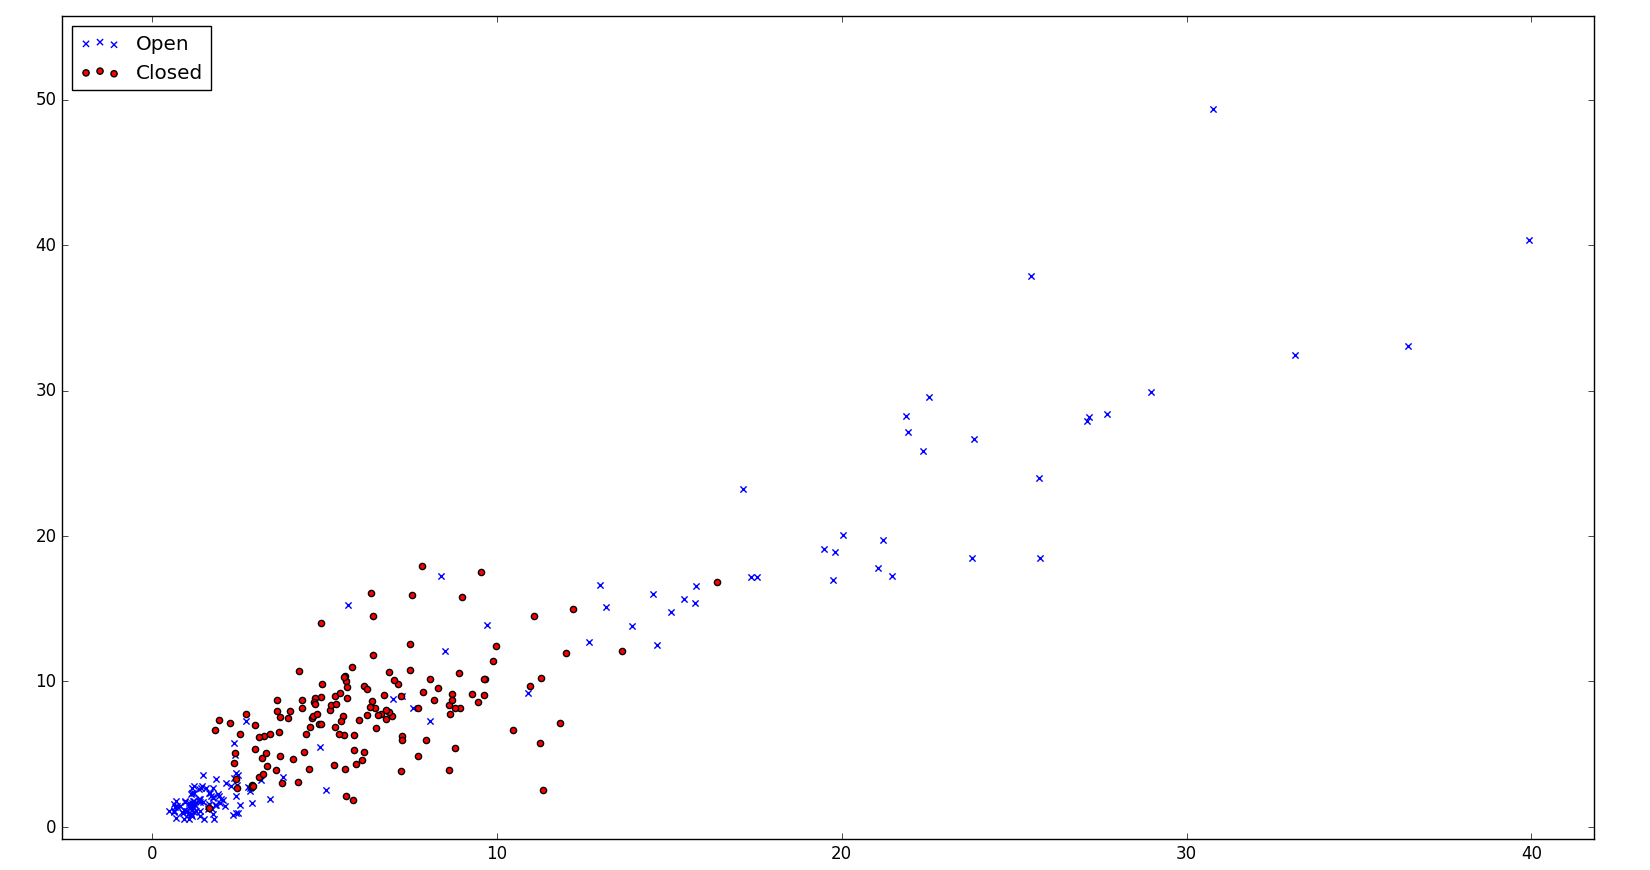
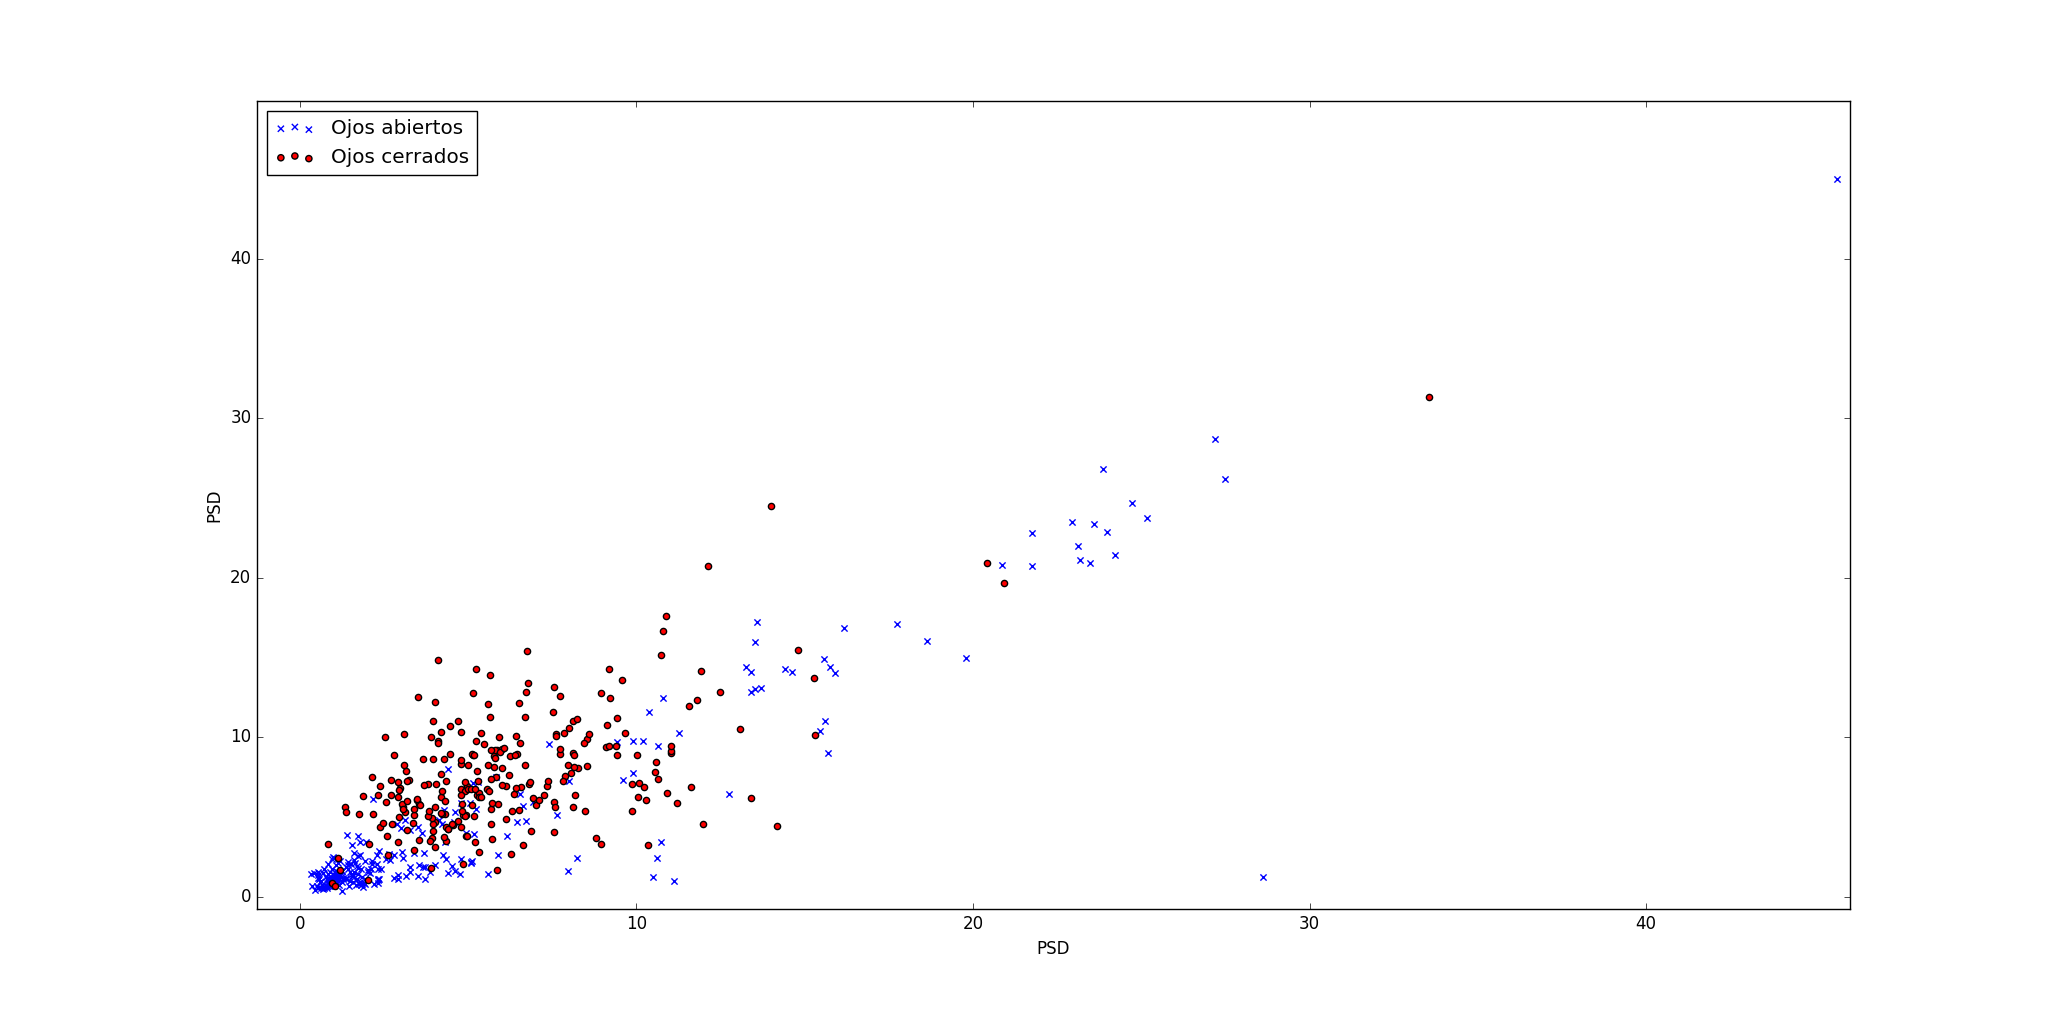
Added more subjects to EEG

diff --git a/Doc/chapters/implementacion.tex b/Doc/chapters/implementacion.tex
@@ -233,13 +233,13 @@ En todos los universos desarrollados se buscó que el uso de las bioseñales ten
 
 \subsection{Universo 3D utilizando bioseñales cerebrales}
 
-Se desarrolló un vídeojuego de terror en el que el usuario debía escaparse de un laberinto. Dicho laberinto es oscuro, está custodiado por \emph{Zombies} (criaturas hostiles que atacan al jugador al verlo) y hay bombas escondidas. El usuario cuenta con una pistola y los movimientos se controlan utilizando el teclado y el ratón. Como se mencionó anteriormente, se utilizaron ondas cerebrales para detectar si el usuario se encontraba con los ojos abiertos o cerrados. En este videojuego, cuando el usuario cierra los ojos, puede escuchar los sonidos que generan las bombas y las puede visualizar en la pantalla, por algunos segundos luego de abrir los ojos, para poder desactivarlas. A su vez, se acumula el tiempo que el usuario se encuentra con los ojos cerrados, y luego de abrir los ojos, se puede observar a los \emph{Zombies} a través de las paredes. Este habilidad dura tantos segundos como los acumulados con los ojos cerrados. El personaje puede escuchar y visualizar bombas y \emph{Zombies} ya que al cerrar los ojos, se concentra e incrementa la sensibilidad auditiva. Aumentar los sentidos es un recurso muy utilizado en muchos videojuegos. La diferencia es que en este videojuego, el usuario realmente se encuentra con los ojos cerrados por lo que se utiliza el estado actual en lugar de un simple botón. Sin embargo, al estar con los ojos cerrados, corre el riesgo de ser atacado y no poder responder a tiempo.
+Se desarrolló un vídeojuego de terror en el que el usuario debía escaparse de un laberinto. Dicho laberinto es oscuro, está custodiado por \emph{Zombies} (criaturas hostiles que atacan al jugador al verlo) y hay bombas escondidas. El usuario cuenta con una pistola y los movimientos se controlan utilizando el teclado y el ratón. Como se mencionó anteriormente, se utilizaron ondas cerebrales para detectar si el usuario se encontraba con los ojos abiertos o cerrados. En este videojuego, cuando el usuario cierra los ojos y no realiza movimientos, puede escuchar los sonidos que generan las bombas y las puede visualizar en la pantalla, por algunos segundos luego de abrir los ojos, para poder desactivarlas. A su vez, se acumula el tiempo que el usuario se encuentra con los ojos cerrados, y luego de abrir los ojos, se puede observar a los \emph{Zombies}, bombas, municiones y paquetes de salud  a través de las paredes. Este habilidad dura tantos segundos como los acumulados con los ojos cerrados, hasta un valor máximo de 10 segundos. El personaje puede escuchar y visualizar bombas, \emph{Zombies}, entre otros, ya que al cerrar los ojos, se concentra e incrementa la sensibilidad auditiva. Aumentar los sentidos es un recurso muy utilizado en muchos videojuegos. La diferencia es que en este videojuego, el usuario realmente se encuentra con los ojos cerrados por lo que se utiliza el estado actual en lugar de un simple botón. Sin embargo, al estar con los ojos cerrados, corre el riesgo de ser atacado y no poder responder a tiempo.
 
 La clase \emph{EEGProcessor} se encarga de obtener lecturas del cerebro de una cola. Dicha cola se encuentra en \emph{EEGReader} y es ésta clase la que se encarga de leer los datos del sensor y publicarlos a la cola. \emph{EEGProcessor} permite que se especifique una lista de funciones a las cuales llamar una vez que se procesaron los datos. Luego de obtener $256$ lecturas de cada electrodo, se calcula la \acrshort{fft} para cada electrodo. Es en este instante en el que se llama a dichas funciones. De esta manera, una rutina en \emph{Unity} es llamada y obtiene la información necesaria del procesador en ese instante. En este caso, el estado de los ojos. En otras palabras, cuando el procesador tiene información para enviar, le notifica a la rutina de \emph{Unity} para que éste la utilice.
 
-Como se utilizó reconocimiento de patrones, se implementó una interfaz para entrenar al clasificador. Dicho entrenamiento tiene una duración de cinco minutos, en los cuales se le indica al usuario que abra y cierre los ojos por períodos de tiempo aleatorio. Durante el entrenamiento se identifica el estado en el que está el usuario. Una vez finalizado el entrenamiento, el usuario puede comenzar a jugar.
+Como se utilizó reconocimiento de patrones, se implementó una interfaz para entrenar al clasificador. Dicho entrenamiento tiene una duración de entre $2$ y $10$ minutos (determinable por el usuario) , en los cuales se le indica al usuario que abra y cierre los ojos por períodos de tiempo aleatorio. Durante el entrenamiento se identifica el estado en el que está el usuario. Una vez finalizado el entrenamiento, el usuario puede comenzar a jugar.
 
-Debido a que la precisión del clasificador no es cercana al $100\%$, se decidió establecer un umbral para determinar en que momento el usuario se encuentra con los ojos cerrados. Cada vez que se predice que se encuentra con los ojos abiertos, se decrementa un contador, y cada vez que se predice que se encuentra con los ojos cerrados, se incrementa. El contador tiene como valor mínimo cero y el valor máximo es establecido de acuerdo al usuario.  Luego, cuando el contador supera un umbral, se considera que los ojos están cerrados hasta que dicho contador se encuentre nuevamente por debajo del umbral. Al procesar las ondas cerebrales, se observó, que en ocasiones, aún cuando el usuario se encontraba con los ojos abiertos, las ondas \emph{Alfa}, obtenían valores muy altos. Por este motivo, podían ser clasificadas como ojos cerrados. Al utilizar un umbral, se impone la condición de que las ondas  \emph{Alfa} se encuentren elevadas por un determinado periodo de tiempo. Algo que no debería suceder al encontrarse con los ojos abiertos. Este comportamiento se controla con dos variables (umbral mínimo y umbral máximo) accesibles desde el menú de pausa. Si se identifica que el usuario registra valores de \emph{Alfa} elevados por períodos de una duración de tiempo determinada, se deben incrementar  tanto el umbral mínimo, como el máximo. En caso contrario, se deben decrementar. La utilización de este sistema, puede causar retardo en la detección de estado ya que se debe esperar a tener una mínima cantidad de lecturas de datos para determinar el estado. Por este motivo, se debía tomar una decisión de compromiso en el momento de elegir los valores. No debían ser muy bajos, ya que se iba a detectar falsamente que el usuario se encontraba con los ojos cerrados. Pero tampoco, debían ser muy altos porque el retardo iba a ser elevado.
+Debido a que la precisión del clasificador era de un  $75%$ (como se verá en la sección \ref{sec:eeg-results}), se decidió establecer un umbral para determinar en que momento el usuario se encuentra con los ojos cerrados. Cada vez que se predice que se encuentra con los ojos abiertos, se decrementa un contador, y cada vez que se predice que se encuentra con los ojos cerrados, se incrementa. El contador tiene como valor mínimo cero y el valor máximo es establecido por el usuario.  Luego, cuando el contador supera un umbral, se considera que los ojos están cerrados hasta que dicho contador se encuentre nuevamente por debajo del umbral o hasta que el usuario realice movimientos con el personaje. Al procesar las ondas cerebrales, se observó, que en ocasiones, aún cuando el usuario se encontraba con los ojos abiertos, las ondas \emph{Alfa}, obtenían valores muy altos. Por este motivo, podían ser clasificadas como ojos cerrados. Al utilizar un umbral, se impone la condición de que las ondas  \emph{Alfa} se encuentren elevadas por un determinado periodo de tiempo. Algo que no debería suceder al encontrarse con los ojos abiertos. Este comportamiento se controla con dos variables (umbral mínimo y umbral máximo) accesibles desde el menú de pausa. Si se identifica que el usuario registra valores de \emph{Alfa} elevados por períodos de una duración de tiempo determinada, se deben incrementar  tanto el umbral mínimo, como el máximo. En caso contrario, se deben decrementar. La utilización de este sistema, puede causar retardo en la detección de estado ya que se debe esperar a tener una mínima cantidad de lecturas de datos para determinar el estado. Por este motivo, se debía tomar una decisión de compromiso en el momento de elegir los valores. No debían ser muy bajos, ya que se iba a detectar falsamente que el usuario se encontraba con los ojos cerrados. Pero tampoco, debían ser muy altos porque el retardo iba a ser elevado.
 
 \subsection{Universo 3D utilizando bioseñales de los músuclos}
 

diff --git a/Doc/chapters/resultados.tex b/Doc/chapters/resultados.tex
@@ -10,20 +10,20 @@ Como se mencionó en la sección \ref{sec:eeg-signal-processing} del capítulo a
  \hline
  Clasificador & Precisión $\alpha_{10 \, Hz}$ &  Precisión $\alpha_{256 \, Hz}$ \\ 
  \hline
- Bayesiano ingenuo & $0.732$  & $0.680$  \\
+ Bayesiano ingenuo & $0.656$  & $0.615$  \\
  \hline
- \gls{lda}  & $0.726$ & $0.767$ \\
+ \gls{lda}  & $0.667$ & $0.689$ \\
   \hline
-  \gls{svm} & $0.706$ & $0.542$ \\
+  \gls{svm} & $0.627$ & $0.5374$ \\
   \hline
- Árbol de decisión & $0.723$ & $0.834$ \\
+ Árbol de decisión & $0.6723$ & $0.755$ \\
  \hline
 \end{tabular}
 \caption{Resultados de utilizar distintos clasificadores sobre todas las muestras.}
 \label{tab:eeg-class-result}
 \end{table}
 
-Se puede observar que los mejores resultados se obtuvieron utilizando un árbol de decisión con un vector de cuatro características obtenido de $256$ muestras. Al de utilizar el método con un vector de dos características obtenidos a $10 \, Hz$, no hubo grandes diferencias en cuanto al clasificador por lo que se decidió utilizar un árbol de decisión para ambos métodos.
+Se puede observar que los mejores resultados se obtuvieron utilizando un árbol de decisión con un vector de cuatro características obtenido de $256$ muestras. Como en ambos métodos el árbol de decisión fue el que mejores resultados arrojó, se utilizó dicho clasificador.
 
 En la tabla \ref{tab:eeg-results} se pueden observar los resultados de todas las sesiones.
 
@@ -39,10 +39,16 @@ En la tabla \ref{tab:eeg-results} se pueden observar los resultados de todas las
  \hline
  3 & $0.768$ & $0.88125$ \\
  \hline
-4  & $0.727$ & $0.909$ \\
+ 4  & $0.727$ & $0.909$ \\
  \hline
-
-
+  5 & $0.510$ & $0.660$ \\
+ \hline
+ 6 & $0.645$ & $0.655$ \\
+ \hline
+ 7 & $0.656$ & $0.795$ \\
+ \hline
+ 8  & $0.682$ & $0.593$ \\
+ \hline
 
  \hline
 \end{tabular}
@@ -50,7 +56,7 @@ En la tabla \ref{tab:eeg-results} se pueden observar los resultados de todas las
 \label{tab:eeg-results}
 \end{table}
 
-La primer observación que se puede realizar es que utilizar $\alpha_{256 \, Hz}$ es más preciso que utilizar $\alpha_{10 \, Hz}$. Como se mencionó anteriormente, esto se debe a que en el primer caso se toman $256$ muestras para calcular la potencia de \emph{Alfa} mientras que en el segundo se utilizan únicamente $25$. A su vez, en el primer caso se utilizan los valores obtenidos por cada electrodo por separado mientras que en el segundo caso se promedian y se arma el vector de características con dos valores consecutivos. Utilizar las mediciones de los distintos electrodos en un período de tiempo describe mejor el estado que utilizar valores de dos períodos consecutivos.
+La primer observación que se puede realizar es que utilizar $\alpha_{256 \, Hz}$ es más preciso que utilizar $\alpha_{10 \, Hz}$ en la mayoría de los casos. Como se mencionó anteriormente, esto se debe a que en el primer caso se toman $256$ muestras para calcular la potencia de \emph{Alfa} mientras que en el segundo se utilizan únicamente $25$. A su vez, en el primer caso se utilizan los valores obtenidos por cada electrodo por separado mientras que en el segundo caso se promedian y se arma el vector de características con dos valores consecutivos. Utilizar las mediciones de los distintos electrodos en un período de tiempo describe mejor el estado que utilizar valores de dos períodos consecutivos. Se consideró inaceptable que en algunos sujetos la precisión diera muy cercana al azar. Por este motivo y por todo lo mencionado anteriormente, se utilizó el método $\alpha_{256 \, Hz}$.
 
 En las figuras \ref{fig:subject-2-10} y \ref{fig:subject-2-256} se observan gráficos de dispersión utilizando los valores de potencia de \emph{Alfa}. En ambos se observa una clara separación de estados. El estado de ojos cerrados contiene valores mayores que el estado de ojos abiertos. La figura \ref{fig:subject-2-10} cuenta con una cantidad mayor de valores atípicos, particularmente, una cantidad mayor de valores de \emph{Alfa} elevados en el estado de ojos abiertos. A su vez, en la figura \ref{fig:subject-2-256} los valores para ojos abiertos se encuentran mayormente concentrados por debajo de los valores para ojos cerrados. Por estos motivos, la precisión es mayor al utilizar el vector de cuatro dimensiones. Debido a la separación que se observa en los gráficos, fue suficiente utilizar un clasificador simple.
 
@@ -80,7 +86,7 @@ Al comparar las figuras \ref{fig:subject-1-256} y \ref{fig:subject-2-256}, se pu
 
 Cabe destacar que al contar con un vector de cuatro características, para graficar se necesitarían cuatro dimensiones. Para abordar este problema se decidió transformar el vector en un vector de dos componentes donde la primer componente es el promedio de los dos primeros valores y la segunda, el promedio de los dos últimos valores.
 
-Otro aspecto a analizar es el hecho de que la precisión varía mucho de sujeto a sujeto. Esto puede deberse a diversos motivos. Uno de ellos es que la persona al saber que está siendo analizada, se encuentra nerviosa por lo que puede afectar las ondas cerebrales. A su vez, si la persona se encuentra cansada, por ejemplo, los estímulos al campo visual tienden a ser menores, lo que genera que lo valores de \emph{Alfa} sean mayores. Esta gran diferencia puede apreciarse al observar que el Sujeto $1$ obtuvo una precisión mucho menor que el resto de los sujetos.
+Otro aspecto a analizar es el hecho de que la precisión varía mucho de sujeto a sujeto. Esto puede deberse a diversos motivos. Uno de ellos es que la persona al saber que está siendo analizada, se encuentra nerviosa por lo que puede afectar las ondas cerebrales. A su vez, si la persona se encuentra cansada, por ejemplo, los estímulos al campo visual tienden a ser menores, lo que genera que lo valores de \emph{Alfa} sean mayores. Otro de ellos es que el cerbero de dos personas distintas responde formas diferentes antes los estímulos. Esta gran diferencia puede apreciarse al observar que el Sujeto $1$ obtuvo una precisión mucho menor que el resto de los sujetos.
 
 Si bien las ondas cerebrales varían mucho de persona a persona y de acuerdo al instante del tiempo, se realizó la prueba de utilizar como sesión de entrenamiento una sesión del sujeto 2  y como sesión de predicción una sesión del sujeto 1. Los resultados fueron sorprendentes ya que se obtuvo una precisión de $0.6537$. Este valor no es comparable con los obtenidos anteriormente ya que dichos valores utilizaron validación cruzada y éste simplemente utilizo un conjunto de datos para entrenamiento y otro para validación. De esta forma, se observa que el sistema de clasificación ofrece un determinado nivel de robustez.
 
